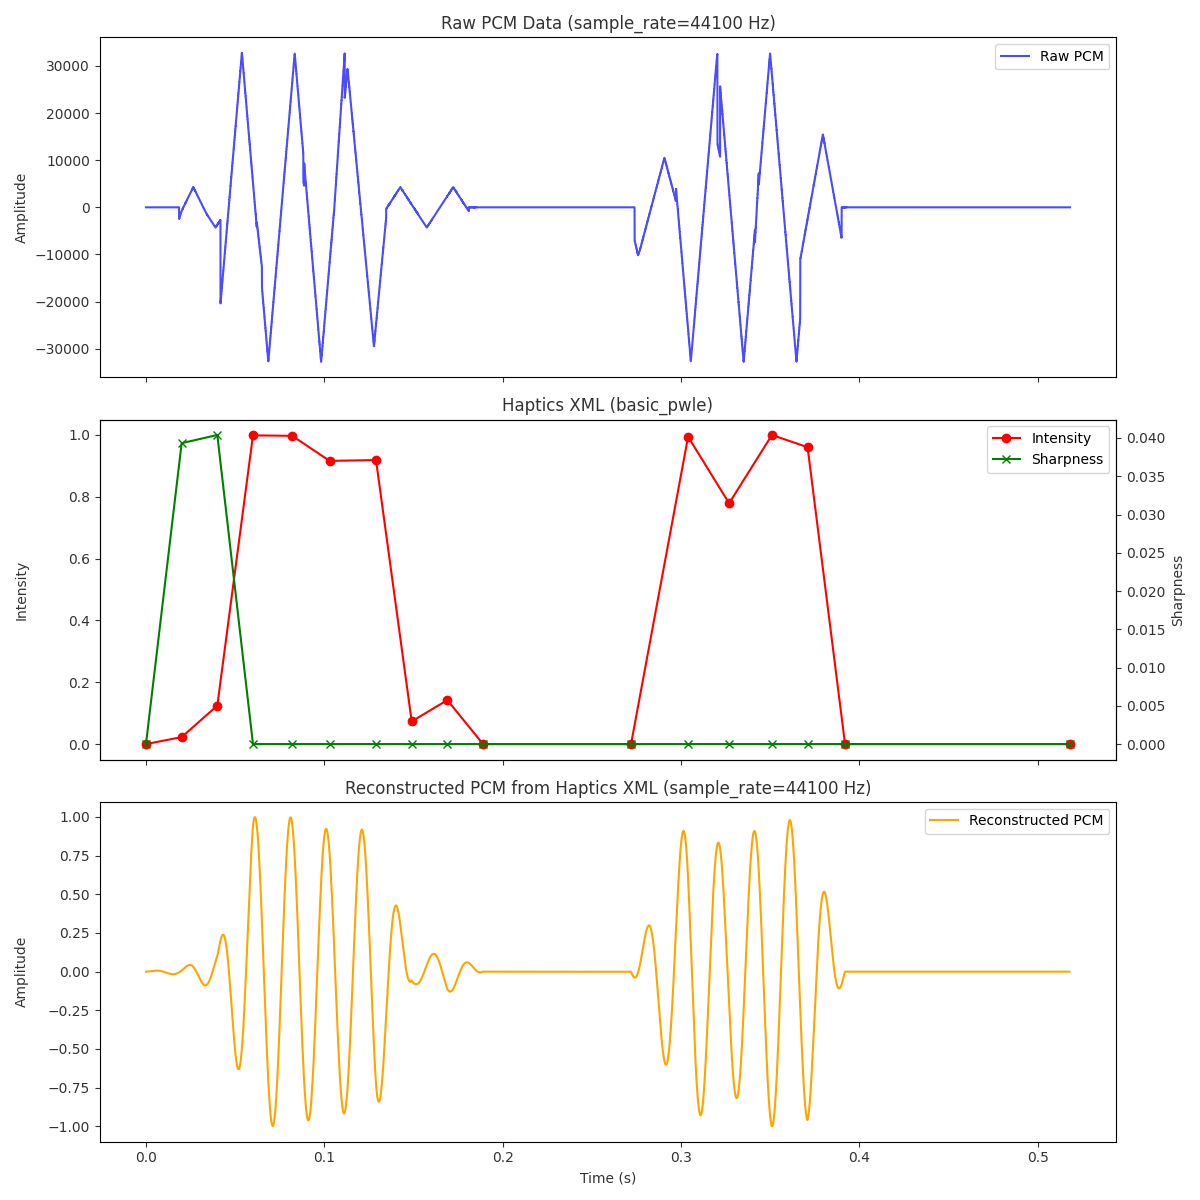
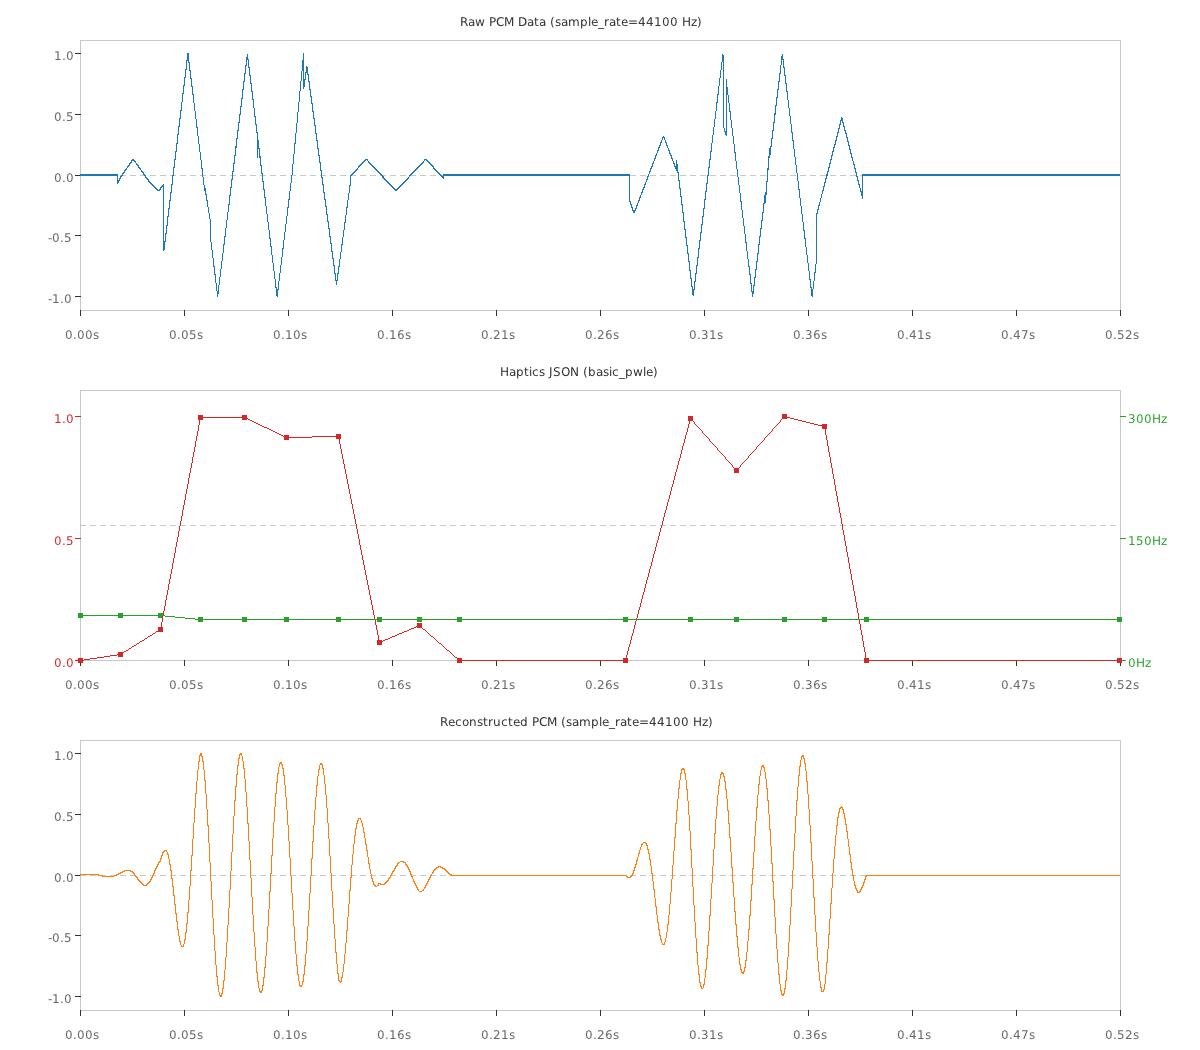
Fix download table header.
PiperOrigin-RevId: 981058577

diff --git a/README.md b/README.md
@@ -34,6 +34,8 @@ technical specification of the conversion algorithm, see the
 You can download the latest pre-compiled executables for your platform from the
 [Releases](https://github.com/android/haptics-tools/releases/latest) page:
 
+| Platform | Download |
+| :--- | :--- |
 | **Linux** | [Download for Linux](https://github.com/android/haptics-tools/releases/latest/download/pcm2pwle-linux.tar.gz) |
 | **Windows** | [Download for Windows](https://github.com/android/haptics-tools/releases/latest/download/pcm2pwle-windows.zip) |
 | **macOS** | [Download for macOS](https://github.com/android/haptics-tools/releases/latest/download/pcm2pwle-macos.tar.gz) |
